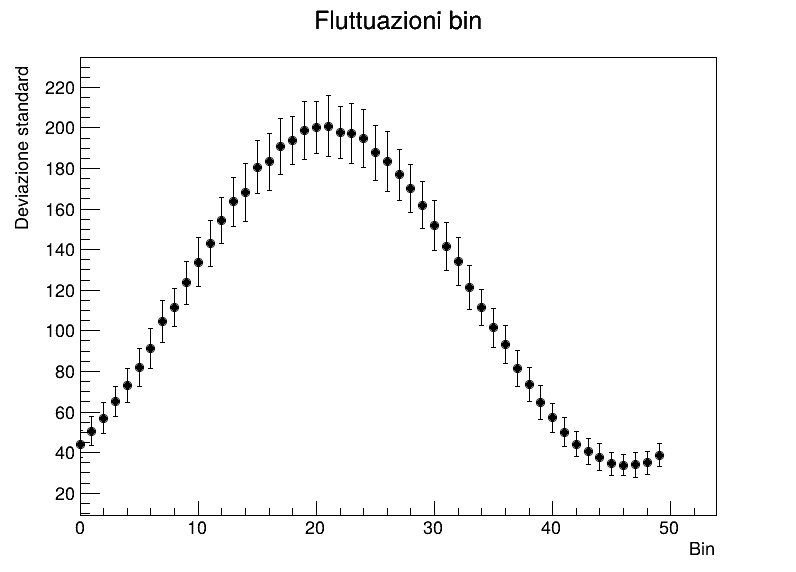
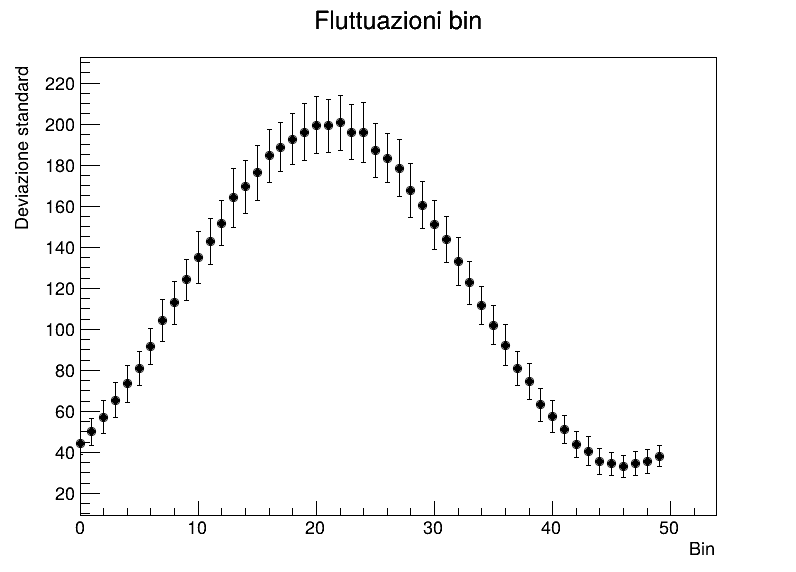
lul

diff --git a/lab1/root_macro.C b/lab1/root_macro.C
@@ -7,6 +7,8 @@
 #include <TRandom.h>
 #include <iostream>
 #include <vector>
+#include <fstream>
+#include <TFitResult.h>
 
 class macro {
   double k_;
@@ -61,7 +63,7 @@ class macro {
     return hist;
   }
 
-  void accordo(int n = 1000, int b = 50) { // normalizza HIST e TF1
+  void accordo(int n = 10000, int b = 50) { // normalizza HIST e TF1
     TH1F* hist1 = (TH1F*)(random_generation_hist(n, b)->Clone("hist1"));
     hist1->Scale(1. / hist1->Integral()), "width";
 
@@ -140,7 +142,7 @@ class macro {
     return {media, sigma};
   }
 
-  void binSmearing(int n = 1000, int b = 50, int gauss=30) {
+  void binSmearing(int b = 50, int gauss=30) {
     bin_mean_sigma bin = rigenerazione_incertezze();
     std::vector<double> g_media(b, 0.0);
     std::vector<double> g_media_2(b, 0.0);
@@ -159,7 +161,40 @@ class macro {
     }
   }
 
-  
+  void fit() {
+    TF1* cos = new TF1("Funzione coseno", "[3]*((cos([0]*x + [1]))^2 + [2])", 0., 0.6);
+    cos->SetParameters(k_, phi_, b_);
+    TH1F *hist = random_generation_hist(10000, 50);
+    auto freepar = hist->Fit(cos, "RSQ");
+    TF1* cos1 = new TF1("Funzione coseno", "[3]*((cos([0]*x + [1]))^2 + [2])", 0., 0.6);
+    cos1->FixParameter(0, k_);
+    cos1->FixParameter(1, phi_);
+    cos1->FixParameter(2, b_);
+    auto fixpar = hist->Fit(cos1, "RSQ");
+
+    int statusfree = freepar->Status();
+    int statusfix = fixpar->Status();
+    std::ofstream ofs("Fit.txt");
+      if(!ofs.is_open()){
+        std::cout << "Error" << '\n';
+      }
+    ofs << "# Fit results\n";
+    ofs << "# Status: " << statusfree << "\n";
+    ofs << "# Function: " << cos->GetName() << "\n";
+
+    double chi2 = cos->GetChisquare();
+    int ndf     = cos->GetNDF();
+    ofs << "# Chi2 NDF\n" << chi2 << " " << ndf << "\n";
+
+    int npar = cos->GetNpar();
+    ofs << "# NParameters: " << npar << "\n";
+    ofs << "Index,Name,Value,Error\n";
+    for (int i = 0; i < npar; ++i) {
+      const char* pname = cos->GetParName(i) ? cos->GetParName(i) : "";
+      ofs << i << "," << pname << "," << cos->GetParameter(i) << "," << cos->GetParError(i) << "\n";
+    }
+    ofs.close();
+  }
 
   void draw() {
     TCanvas* c1 = new TCanvas("c1", "Funzione coseno", 800, 600);
@@ -176,3 +211,4 @@ class macro {
     c3->SaveAs("istogramma.png");
   }
 };
+

diff --git a/lab1/root_main.cpp b/lab1/root_main.cpp
@@ -3,9 +3,11 @@
 int main(int arcg, char** argv) {
     gRandom->SetSeed(0);
     macro test;
-    test.draw(); // ciao
+    test.draw();
     test.accordo(10000, 100);
-    test.rigenerazione_incertezze();
-    test.binSmearing();
+    // test.rigenerazione_incertezze();
+    // test.binSmearing();
+    test.fit();
+    
     return 0;
 }
